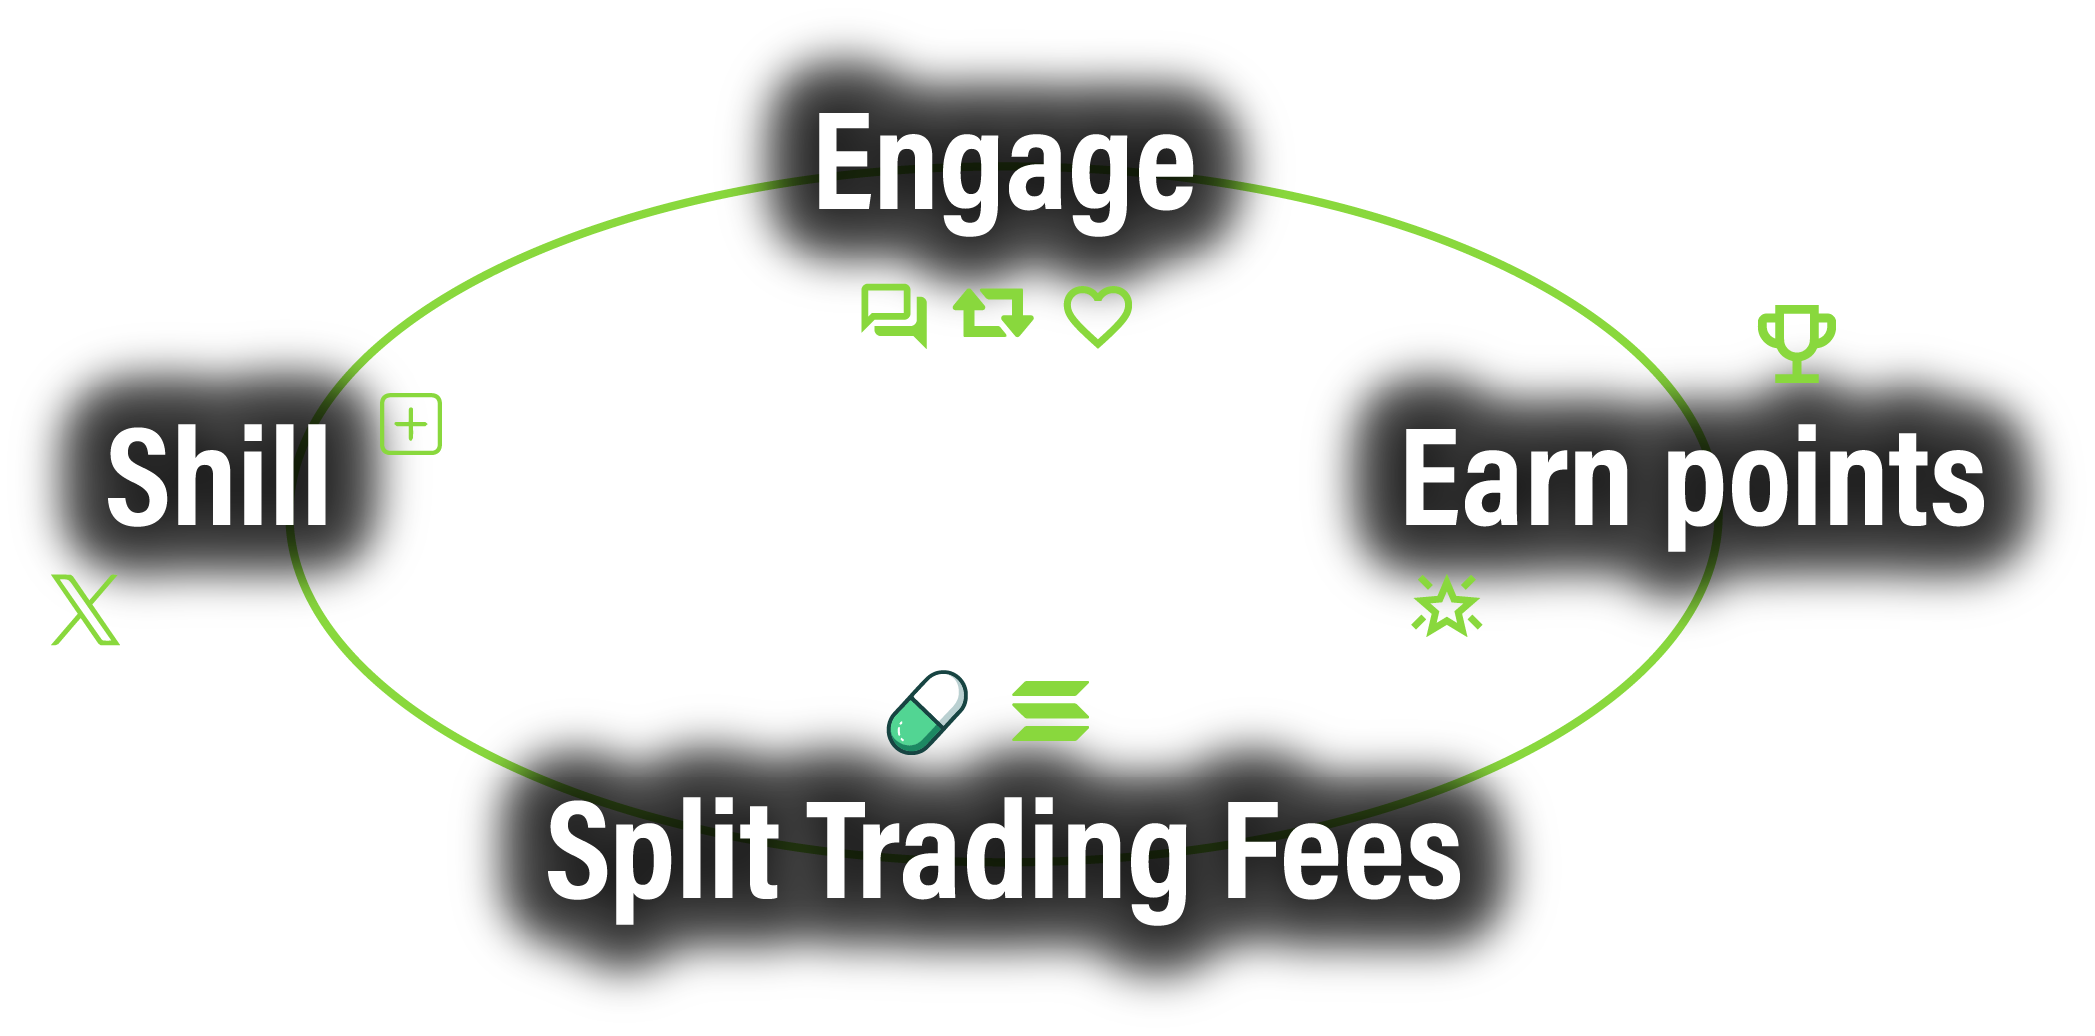
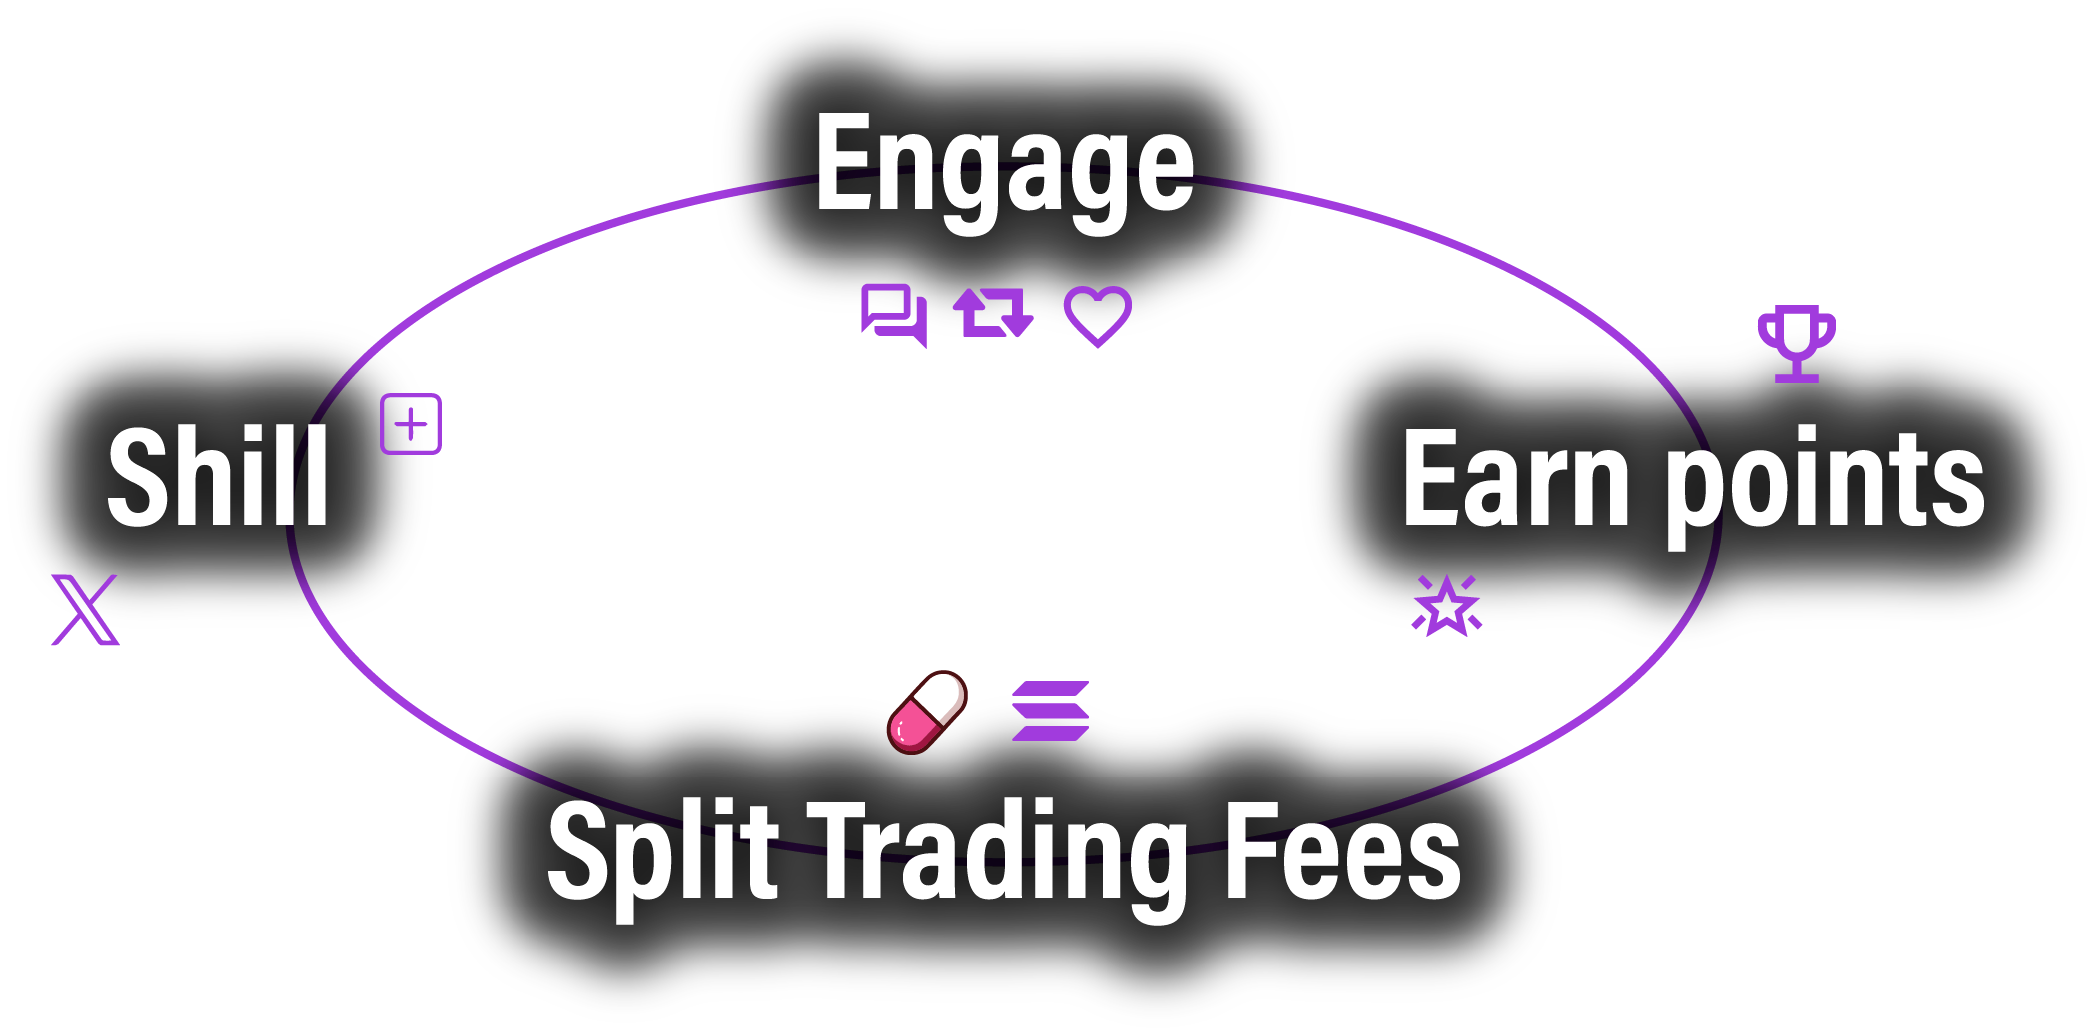
Add files via upload

diff --git a/snipped.css b/snipped.css
@@ -66,17 +66,17 @@ div.t-8zf {
 
 #rec-d77 .t39-njm  { 
     height: 110px; 
-    background-color: #000000;
+    background-color: #12051c;
 } 
 
 #rec-cri .t39-njm  { 
     height: 780px; 
-    background-color: #000000;
+    background-color: #12051c;
 } 
 
 #rec-ca6 .t39-njm  { 
     height: 360px; 
-    background-color: #000000;
+    background-color: #12051c;
 } 
 
 @media all{ 
@@ -275,16 +275,16 @@ div.t-8zf {
     font-weight: 600; 
     border-width: 2px; 
     border-radius: 10px 10px 10px 10px; 
-    background-color: #141e09; 
+    background-color: #2e1065; 
     background-position: center center; 
-    border-color: #4c7717; 
+    border-color: #d946ef; 
     border-style: solid; 
     transition: background-color 0.2s ease-in-out,color 0.2s ease-in-out,border-color 0.2s ease-in-out;
 } 
 
 @media (hover), (min-width:0\0){ 
   #rec-d77 .tn-8m7[data-elem-id="1758110169972"] .tn-1e9:hover { 
-    background-color: #4c7717; 
+    background-color: #d946ef; 
     background-image: none;
   } 
 }     
@@ -304,16 +304,16 @@ div.t-8zf {
     font-weight: 600; 
     border-width: 2px; 
     border-radius: 10px 10px 10px 10px; 
-    background-color: #141e09; 
+    background-color: #2e1065; 
     background-position: center center; 
-    border-color: #4c7717; 
+    border-color: #d946ef; 
     border-style: solid; 
     transition: background-color 0.2s ease-in-out,color 0.2s ease-in-out,border-color 0.2s ease-in-out;
 } 
 
 @media (hover), (min-width:0\0){ 
   #rec-cri .tn-8m7[data-elem-id="1758116405714"] .tn-1e9:hover { 
-    background-color: #4c7717; 
+    background-color: #d946ef; 
     background-image: none;
   } 
 }     
@@ -325,7 +325,7 @@ div.t-8zf {
     line-height: 1.55; 
     font-weight: 600; 
     border-radius: 10px 10px 10px 10px; 
-    background-color: #292d24; 
+    background-color: #2e1065; 
     background-position: center center; 
     border-color: transparent; 
     border-style: solid; 
@@ -334,7 +334,7 @@ div.t-8zf {
 
 @media (hover), (min-width:0\0){ 
   #rec-ca6 .tn-8m7[data-elem-id="1758112915116"] .tn-1e9:hover { 
-    background-color: #568426; 
+    background-color: #d946ef; 
     background-image: none;
   } 
 }     
@@ -346,7 +346,7 @@ div.t-8zf {
     line-height: 1.55; 
     font-weight: 600; 
     border-radius: 10px 10px 10px 10px; 
-    background-color: #292d24; 
+    background-color: #2e1065; 
     background-position: center center; 
     border-color: transparent; 
     border-style: solid; 
@@ -355,7 +355,7 @@ div.t-8zf {
 
 @media (hover), (min-width:0\0){ 
   #rec-ca6 .tn-8m7[data-elem-id="175811294354274390"] .tn-1e9:hover { 
-    background-color: #568426; 
+    background-color: #d946ef; 
     background-image: none;
   } 
 }     
@@ -367,7 +367,7 @@ div.t-8zf {
     line-height: 1.55; 
     font-weight: 600; 
     border-radius: 10px 10px 10px 10px; 
-    background-color: #292d24; 
+    background-color: #2e1065; 
     background-position: center center; 
     border-color: transparent; 
     border-style: solid; 
@@ -376,7 +376,7 @@ div.t-8zf {
 
 @media (hover), (min-width:0\0){ 
   #rec-ca6 .tn-8m7[data-elem-id="1758113052053"] .tn-1e9:hover { 
-    background-color: #568426; 
+    background-color: #d946ef; 
     background-image: none;
   } 
 }     
